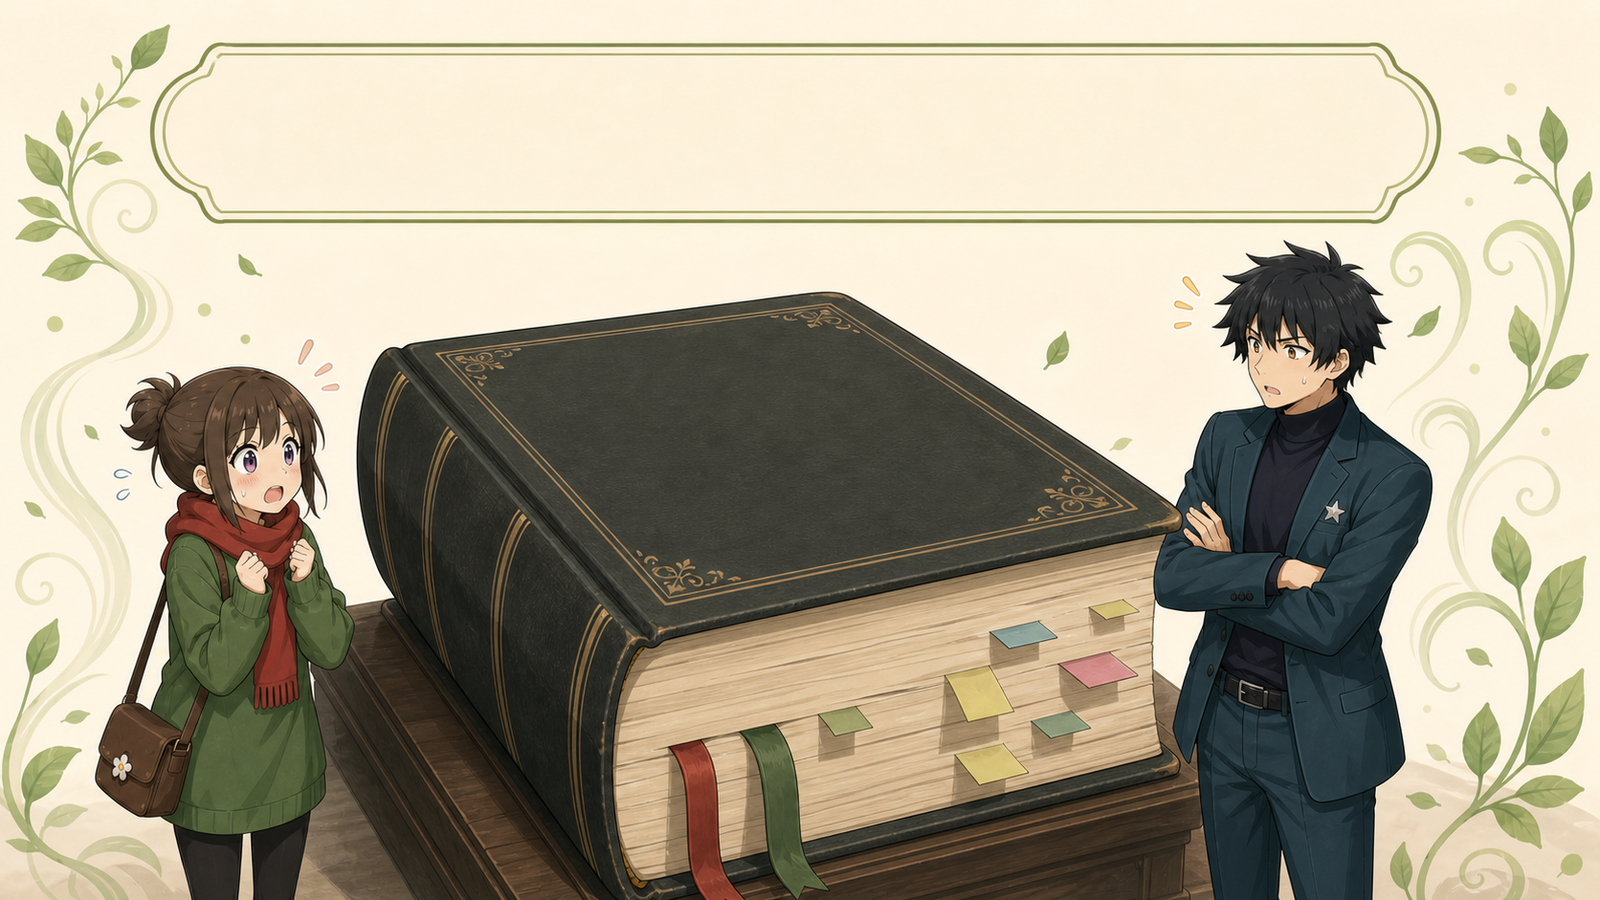
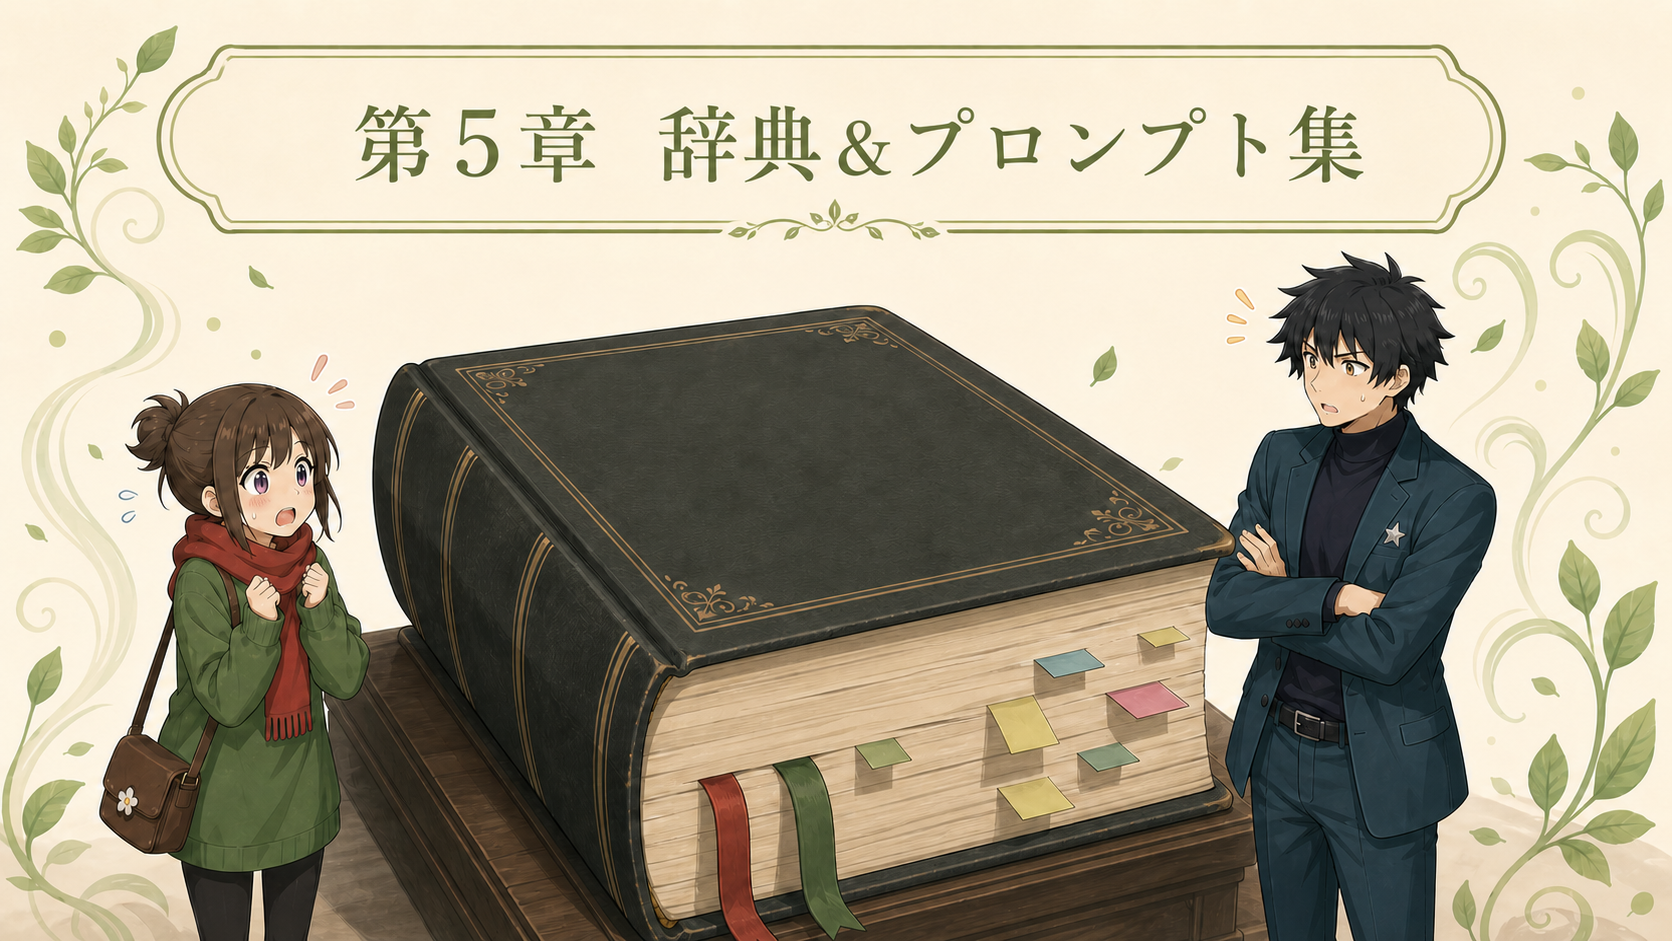
動画パスと後半章扉絵を修正

diff --git a/textbook.html b/textbook.html
@@ -529,7 +529,7 @@ AI研修の講師と、<br />
 iPhoneからMacに音声ファイルをAirDropして、<br />
 タイトルを設定するだけで、<br />
 あとは自動でAIが作業してくれます。</p>
-<video controls preload="none" style="max-width:100%;margin:24px 0;border-radius:8px;"><source src="../demo_douga/podcast-upload-demo.mp4" type="video/mp4"></video>
+<video controls playsinline preload="metadata" style="max-width:100%;margin:24px 0;border-radius:8px;"><source src="podcast-upload-demo.mp4" type="video/mp4"></video>
 
 <p>・複数音声サービスへのログイン<br />
 ・音声アップロード<br />
@@ -2394,7 +2394,7 @@ MCPは「<strong>Claude等とPlaywrightをつなぐ橋</strong>」<br />
 <p>「<strong>業務委託先の宿泊施設情報入力自動化</strong>」</p>
 <p>イメージはこちらの動画をどうぞ。（機密情報が多く、<br />
 モザイク多めですみません）</p>
-<video controls preload="none" style="max-width:100%;margin:24px 0;border-radius:8px;"><source src="../demo_douga/おてつたびデモ_完成_モザイク.mp4" type="video/mp4"></video>
+<video controls playsinline preload="metadata" style="max-width:100%;margin:24px 0;border-radius:8px;"><source src="otetsutabi-demo.mp4" type="video/mp4"></video>
 
 <p>1件あたり30〜50項目、手でやると1時間近く。<br />
 宿が10件20件と増えると人間がやってられません。</p>
@@ -4310,7 +4310,7 @@ Phase 4：壊れても再開できる設計にする
 <p>それだけ頭に置いて、実例を見てください。</p>
 <hr />
 <h2 id="第4章-実例①-業務委託先の管理画面入力を自動化した話">実例①　業務委託先の管理画面入力を自動化した話</h2>
-<video controls preload="none" style="max-width:100%;margin:24px 0;border-radius:8px;"><source src="../demo_douga/おてつたびデモ_完成_モザイク.mp4" type="video/mp4"></video>
+<video controls playsinline preload="metadata" style="max-width:100%;margin:24px 0;border-radius:8px;"><source src="otetsutabi-demo.mp4" type="video/mp4"></video>
 
 <h3 id="第4章-自動化前の状態">自動化前の状態</h3>
 <p>ペスハムはある時期、<br />
@@ -4396,7 +4396,7 @@ Phase 4：壊れても再開できる設計にする
 が速くなります。</p>
 <hr />
 <h2 id="第4章-実例②-音声配信の毎日アップロードを自動化した話">実例②　音声配信の毎日アップロードを自動化した話</h2>
-<video controls preload="none" style="max-width:100%;margin:24px 0;border-radius:8px;"><source src="../demo_douga/podcast-upload-demo.mp4" type="video/mp4"></video>
+<video controls playsinline preload="metadata" style="max-width:100%;margin:24px 0;border-radius:8px;"><source src="podcast-upload-demo.mp4" type="video/mp4"></video>
 
 <h3 id="第4章-自動化前の状態_1">自動化前の状態</h3>
 <p>毎朝 iPhone で音声を録音して、<br />
@@ -4962,7 +4962,7 @@ Phase 4：壊れても続きから再開できる形にする
 <hr />
 <hr /></section>
 <section class="chapter" id="第5章"><div class="chapter-label">第5章</div><h1 class="chapter-title">辞典＆プロンプト集</h1><h1 id="第5章-第5章-プロンプト辞典：状況別コピペ集">第5章　プロンプト辞典：状況別コピペ集</h1>
-<p><img alt="第5章：辞典＆プロンプト集" src="images/ch05/ch05-prompt-dictionary-hero.png?v=20260603b" loading="lazy" decoding="async" /></p>
+<p><img alt="第5章：辞典＆プロンプト集" src="images/ch05/ch05-prompt-dictionary-hero.png?v=20260604-ch05" loading="lazy" decoding="async" /></p>
 <hr />
 <h2 id="第5章-この章の使い方">この章の使い方</h2>
 <p>本文として読む必要はありません。</p>
@@ -6117,7 +6117,7 @@ OS のファイル選択ダイアログが開いてしまい、
 <hr />
 <hr /></section>
 <section class="chapter" id="終章"><div class="chapter-label">終章</div><h1 class="chapter-title">これからの話</h1><h1 id="終章-終章-これからの話">終章　これからの話</h1>
-<p><img alt="終章：これからの話" src="images/shusho/chapter-hero-shusho.png?v=20260603b" loading="lazy" decoding="async" /></p>
+<p><img alt="終章：これからの話" src="images/shusho/chapter-hero-shusho.png?v=20260604-shusho" loading="lazy" decoding="async" /></p>
 <hr />
 <h2 id="終章-ここまで来た">ここまで来た</h2>
 <p><img alt="" src="images/shusho/kokomade.png" loading="lazy" decoding="async" /></p>
